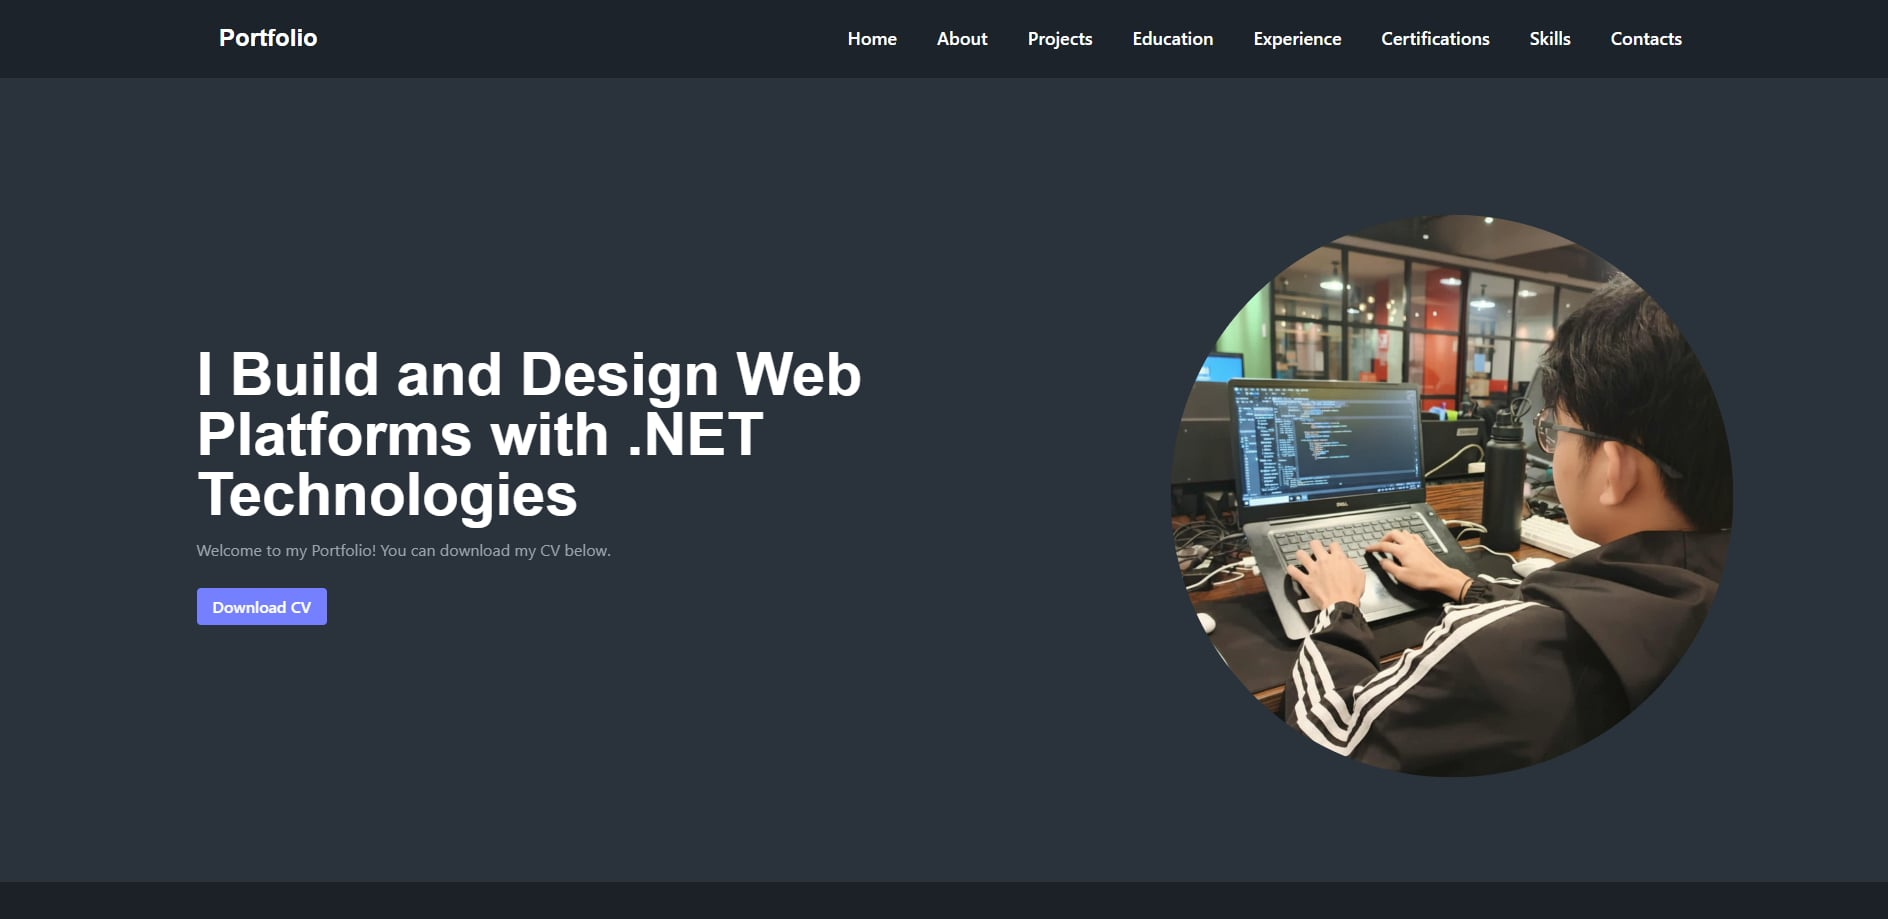
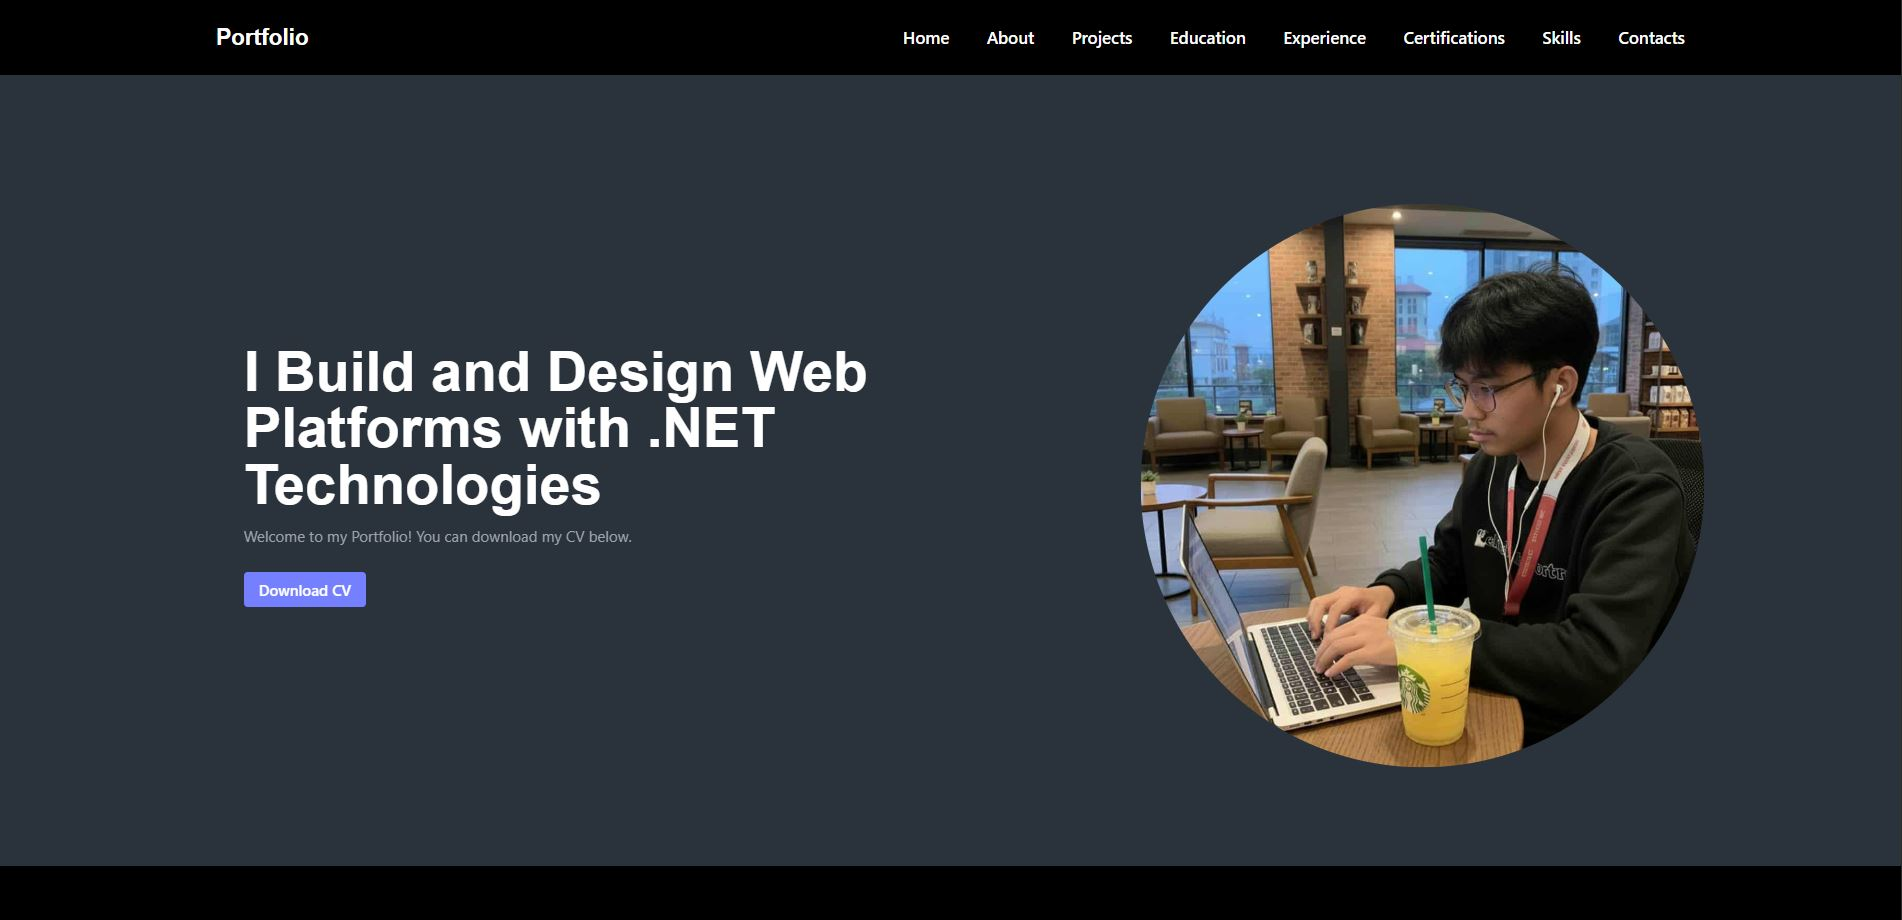
updated images

diff --git a/MyPortfolio/wwwroot/js/site.js b/MyPortfolio/wwwroot/js/site.js
@@ -3,7 +3,7 @@
 
 // Write your JavaScript code.
 
-// Menu bar in mobile
+// MENU BAR (MOBILE)
 const hamburger = document.getElementById('hamburger');
 const mobileMenu = document.getElementById('mobile-menu');
 const closeBtn = document.getElementById('close-btn');
@@ -102,6 +102,7 @@ document.addEventListener('DOMContentLoaded', () => {
 });
 
 
+// RECENT PROJECTS MODAL
 function openProjectModal(title, description, techStackImages) {
     const modal = document.getElementById('projectModal');
     const modalContent = document.getElementById('projectModalContent');
@@ -140,7 +141,7 @@ document.getElementById('projectModal').addEventListener('click', function (even
 });
 
 
-// CERTIFICATES MODAL (NO SLIDESHOW)
+// CERTIFICATES MODAL 
 function openCertificatePreview(imageFileName) {
   const modal = document.getElementById("certificatePreviewModal");
   const modalContent = document.getElementById("certificateModalContent");
@@ -174,7 +175,6 @@ function closeCertificatePreview() {
   );
 }
 
-// Close modal when clicking outside content
 document.getElementById("certificatePreviewModal").addEventListener("click", function (event) {
   if (event.target === this) {
     closeCertificatePreview();
@@ -182,9 +182,7 @@ document.getElementById("certificatePreviewModal").addEventListener("click", fun
 });
 
 
-
-
-// Cross Line
+// CROSS LINE
 document.addEventListener("DOMContentLoaded", () => {
   const section = document.getElementById("cross-lines");
   const vertical = section.querySelector(".line-vertical");
@@ -210,7 +208,7 @@ document.addEventListener("DOMContentLoaded", () => {
 });
 
 
-// Preloader
+// PRELOADER
 window.addEventListener("load", function () {
             const preloader = document.getElementById("preloader");
             const wrapper = document.getElementById("site-wrapper");
@@ -224,7 +222,7 @@ window.addEventListener("load", function () {
         });
 
 
-// 404 JS
+// 404 ERROR PAGE JS
 
 (function() {
   const allowed = [

diff --git a/MyPortfolio/wwwroot/css/site.css b/MyPortfolio/wwwroot/css/site.css
@@ -1,4 +1,4 @@
-html, body {
+html, body {
     scroll-behavior: smooth;
     overflow-x: hidden;
 }
@@ -417,14 +417,24 @@ html, body {
 
 /* === Hero Image Animation === */
 .heroImg-animate img {
-    width: 580px;
-    height: 580px;
+    width: 622px;
+    height: 622px;
     border-radius: 50%;
     object-fit: cover;
     transform: scale(0.97);
-    margin-left: 200px;
-    margin-top: -80px;
+    margin-left: 150px;
+    margin-top: -100px;
 }
+
+@media (max-width: 767px) {
+    .heroImg-animate img {
+        display: block;
+        margin: 100px auto 0 auto;
+        width: 400px; 
+        height: 400px; 
+    }
+}
+
 
 img,
 svg,
